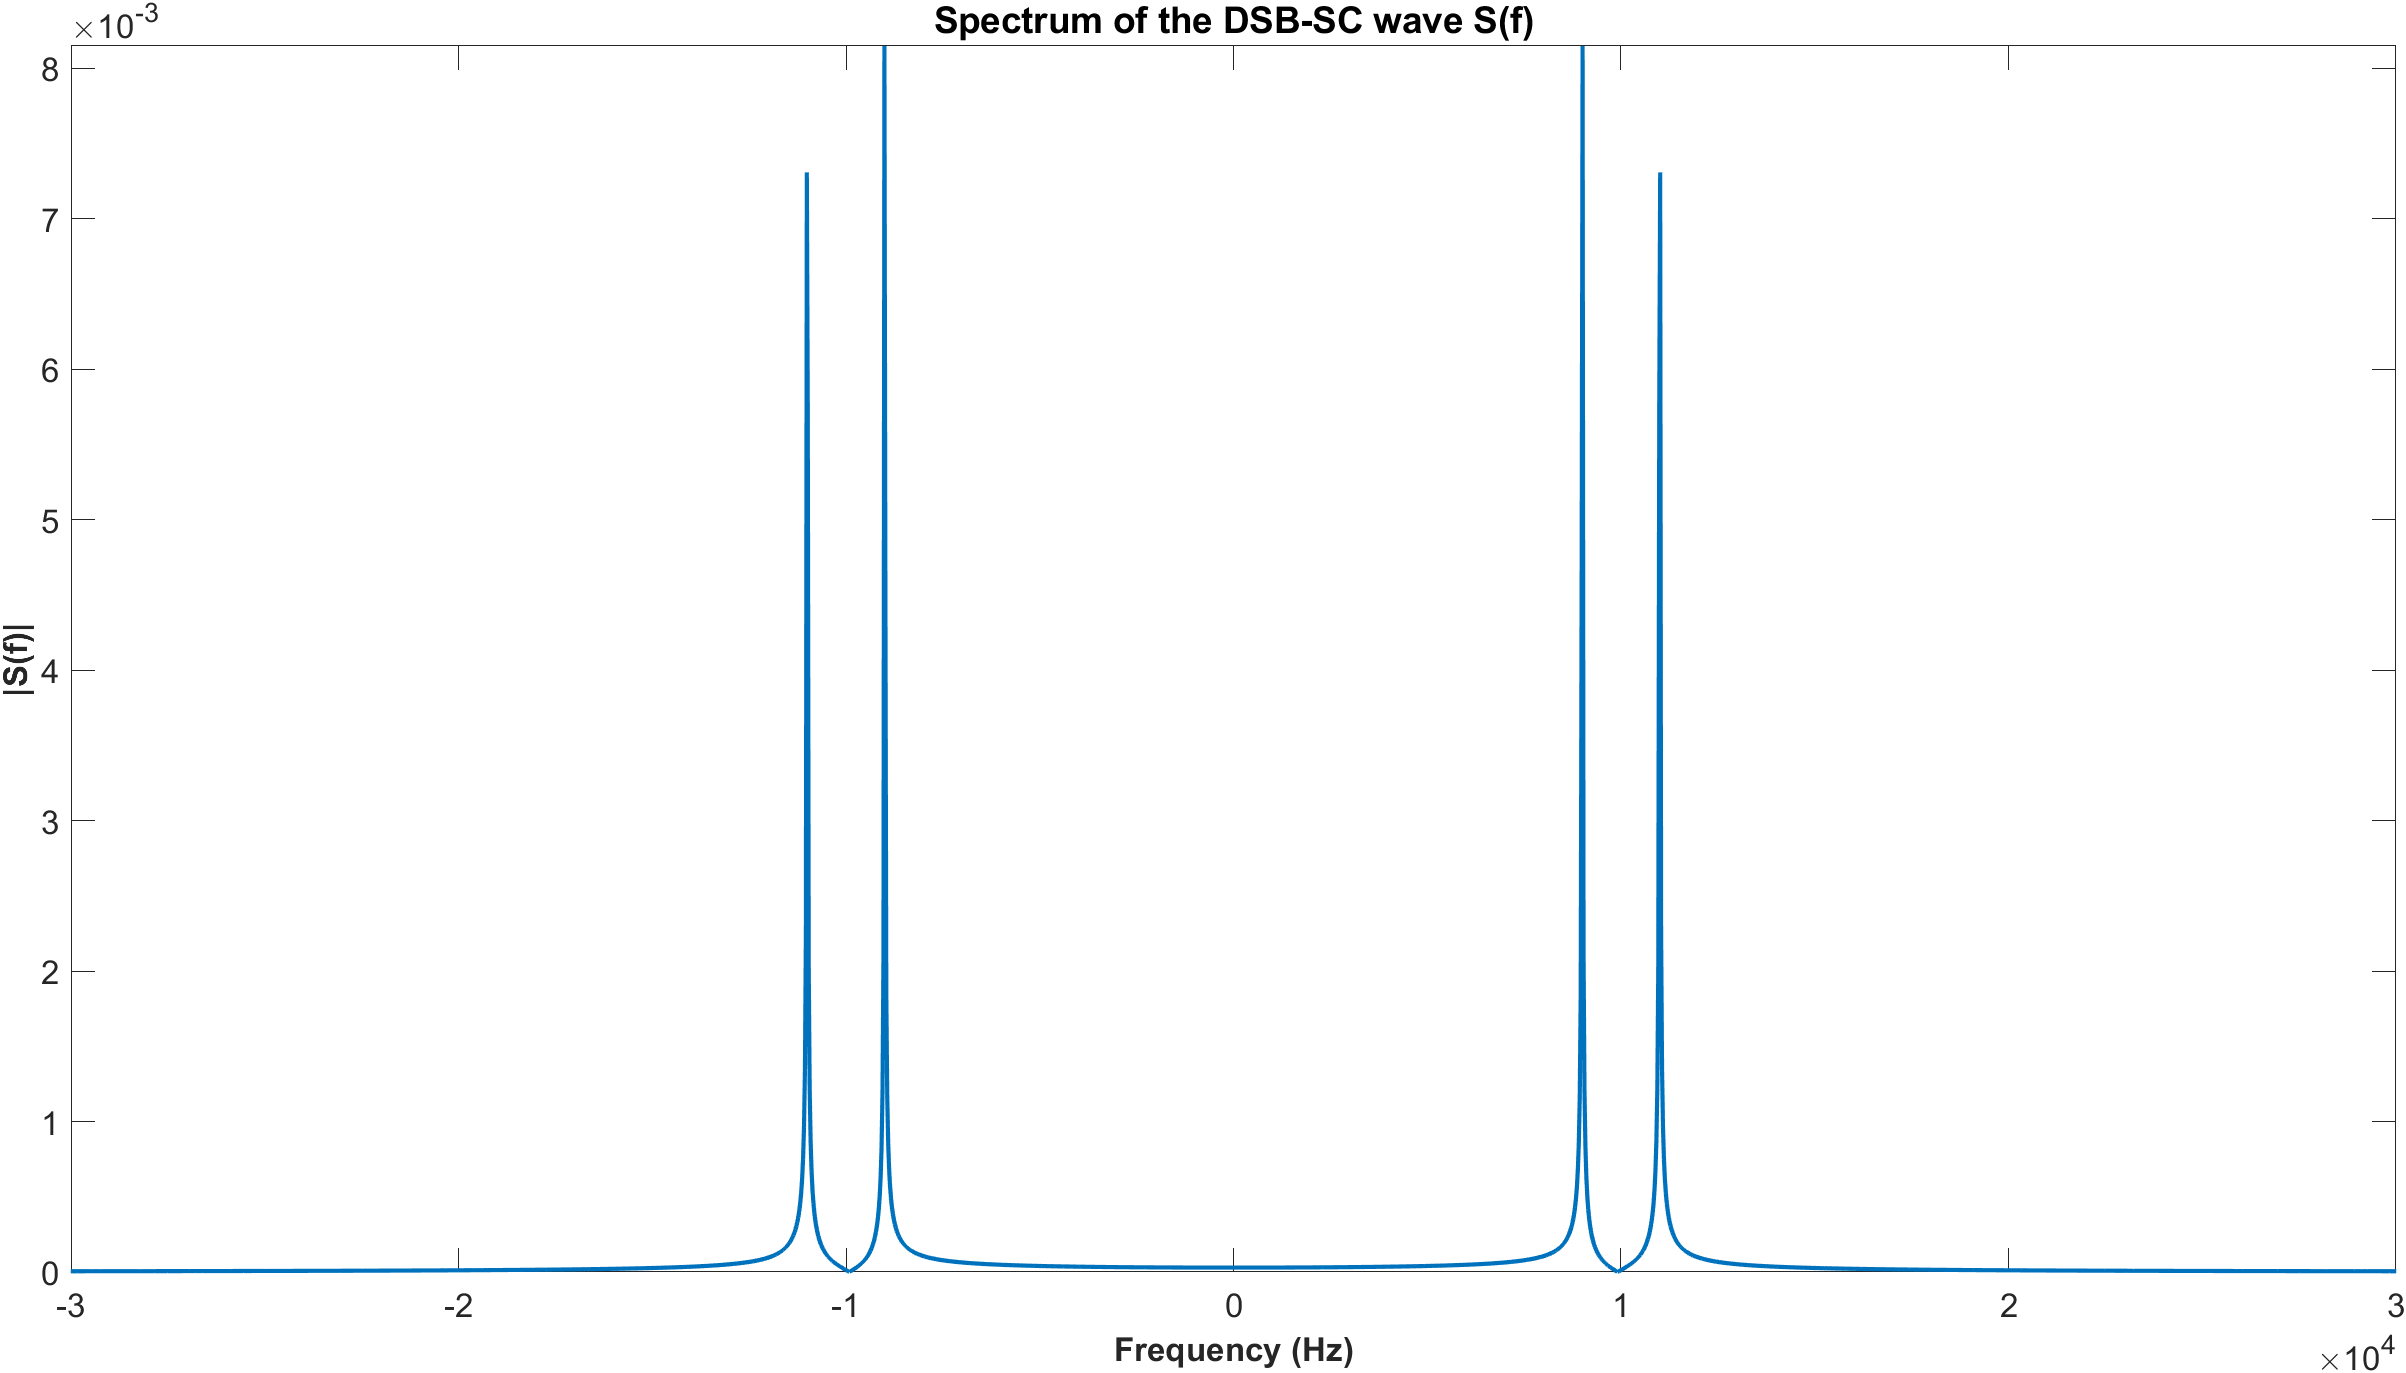
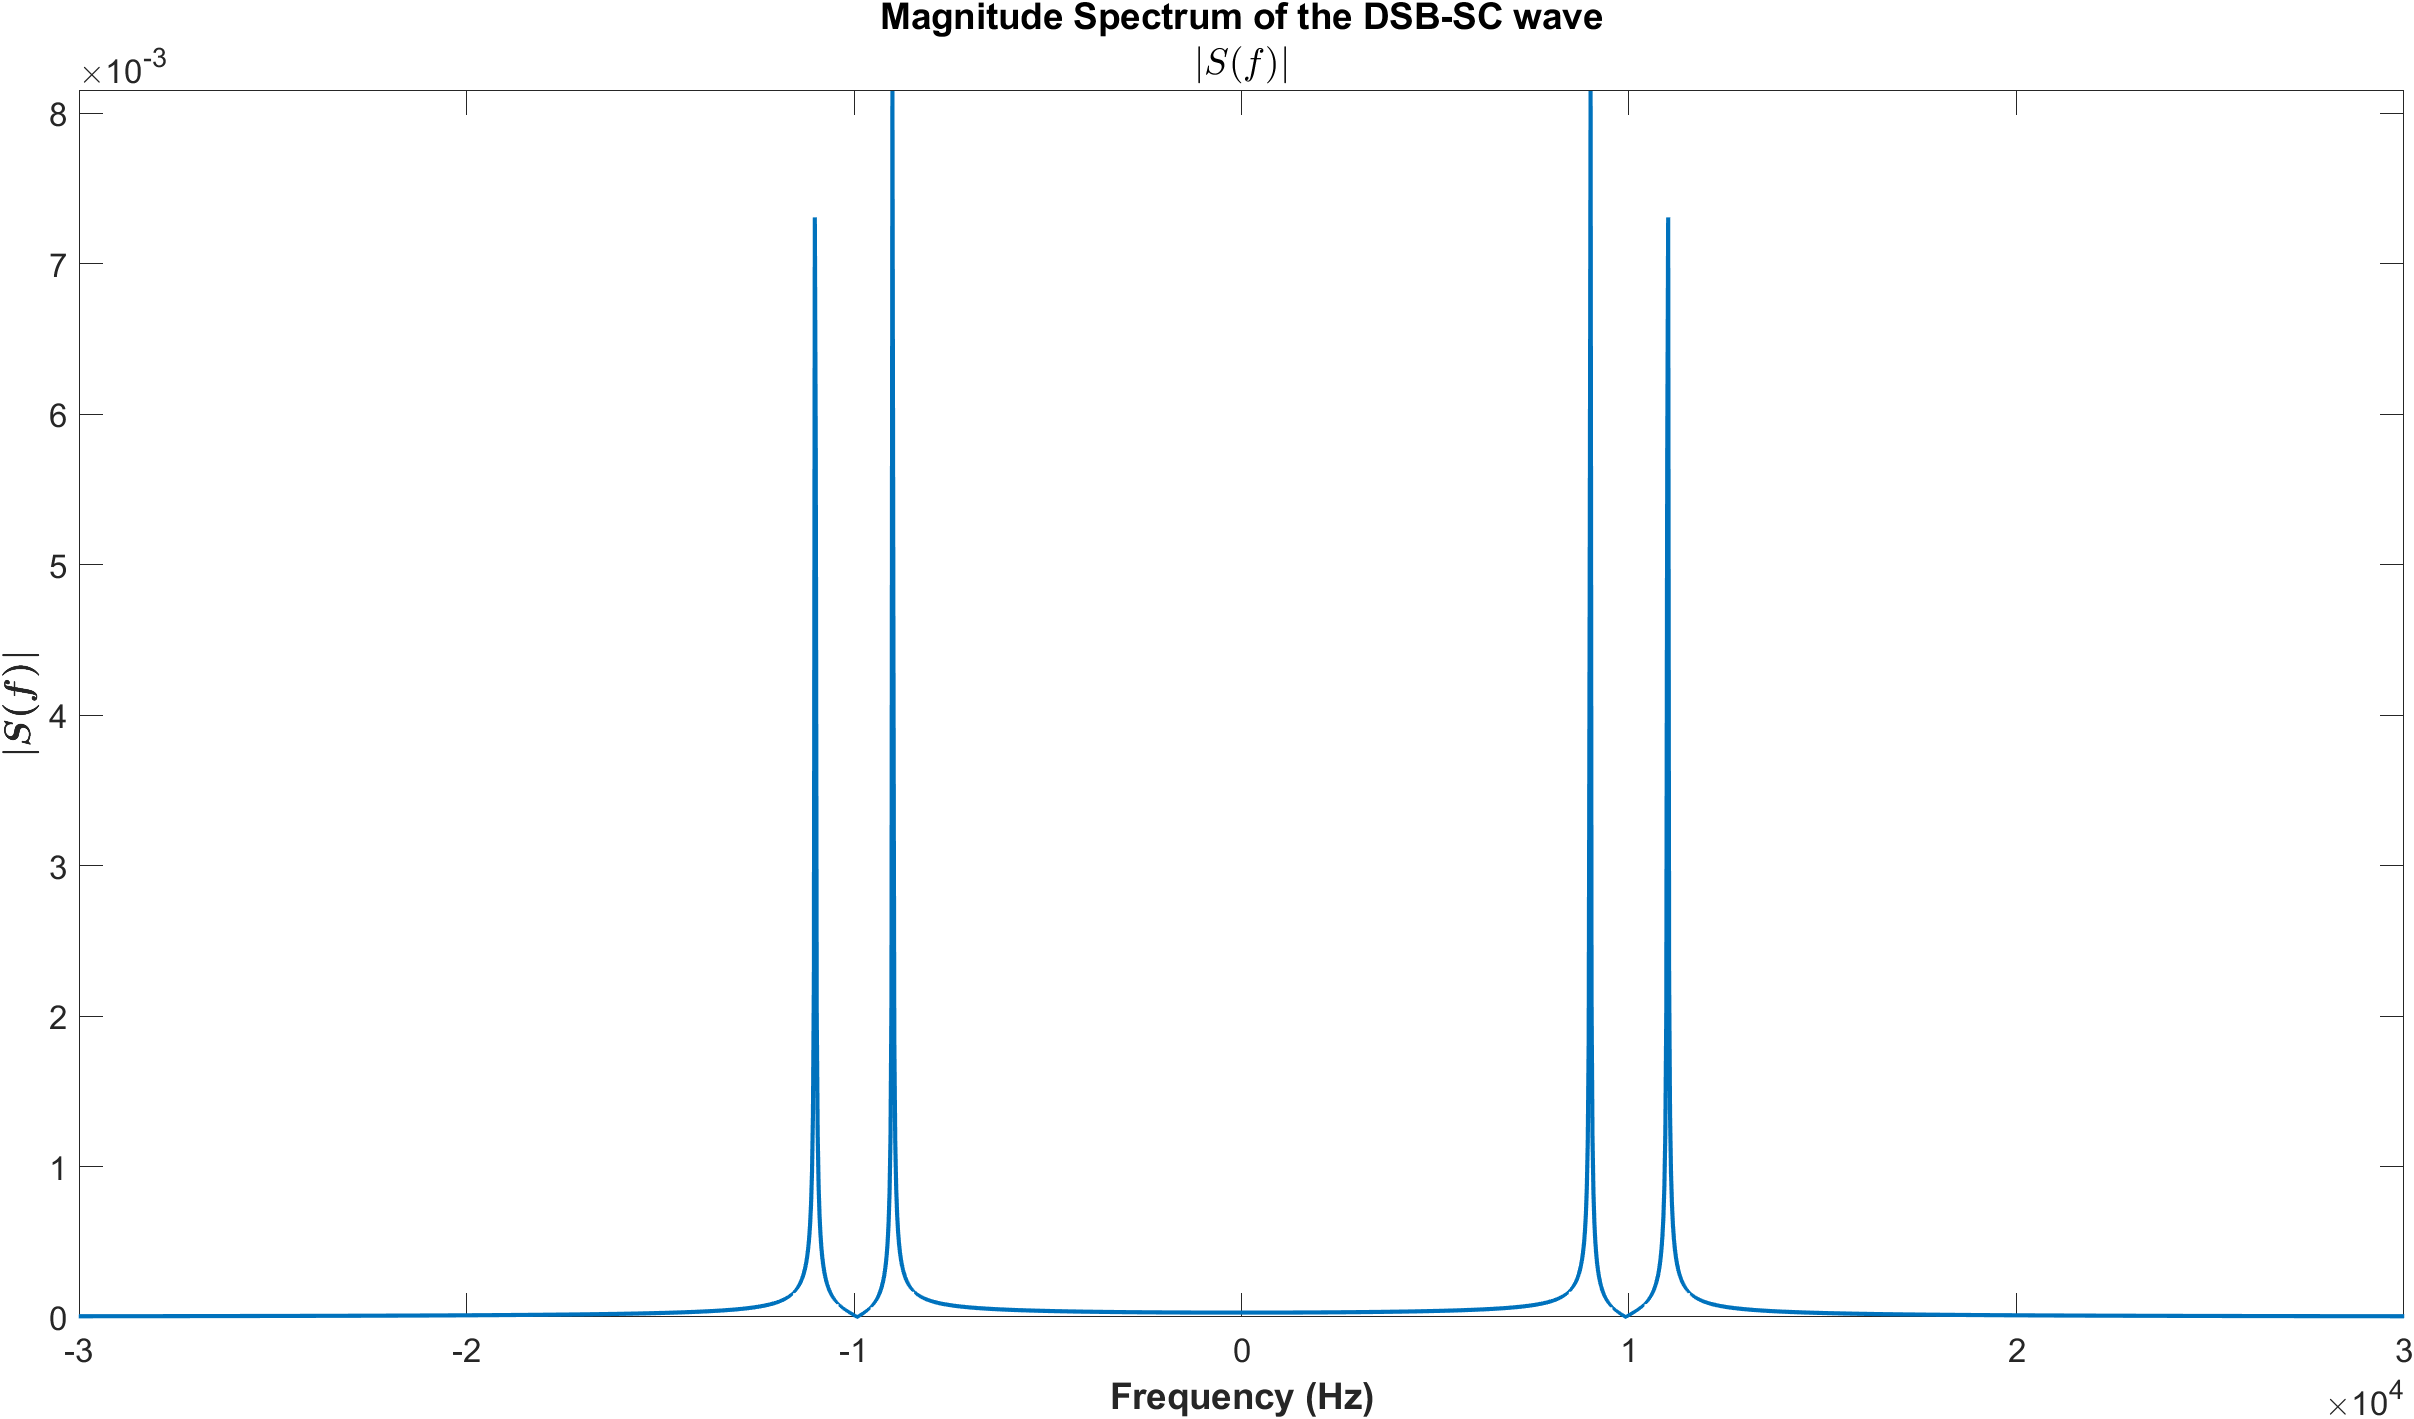
done lab 3 experiments

diff --git a/Lab 3/MATLAB/exp3_2.m b/Lab 3/MATLAB/exp3_2.m
@@ -1,6 +1,8 @@
 clear
 hold off
 format long e
+set(0,'DefaultAxesFontSize',16);
+
 N = 4096; %No. of FFT samples
 sampling_rate = 100.0e3; %unit Hz
 tstep = 1/sampling_rate;
@@ -13,170 +15,124 @@ fmin = -fmax;
 fstep = (fmax-fmin)/N;
 freq = fmin:fstep:fmax-fstep;
 
-fc=20e3;
+fc = 10e3;
 Ac = 1;
 %In-phase carrier
-ct1=Ac*cos(2*pi*fc*tt);
+ct1= Ac * cos(2*pi*fc*tt);
+
 %The first message signal
-mt1 = exp(-tt.*tt*1e6);
+tau_m = 0.001;
+mt1 = 2*sinc(tt/tau_m);
+
 %DSB-SC1
 st1 = mt1.*ct1;
+
 %Quad. carrier
-ct2=Ac*sin(2*pi*fc*tt);
+ct2 = Ac * sin(2*pi*fc*tt);
+
 %The second message signal
-fm = 1e3;
-mt2 = sin(2*pi*fm*tt);
+mt2 = sinc(tt/tau_m).^2;
 %DSB-SC2
 st2 = mt2.*ct2;
 %QAM signal
 st = st1+st2;
 
+%% Plot the QAM Signal in Time Domain
+qam_time = figure(1);
+time_dom = plot(tt, st, 'LineWidth', 2);
+xlabel('Time (s)','FontWeight','bold');
+ylabel('\boldmath$s(t)$ \textbf{(V)}','interpreter','latex');
+title('QAM Signal: Time Domain');
+subtitle('$s(t)$', 'interpreter', 'latex');
+axis([-10/fc 10/fc min(st) max(st)]);
+qam_time.WindowState = 'maximized';
+export_dest = "../Report/Figures/qam_time.png";
+exportgraphics(qam_time, export_dest);
 
-figure(1)
-Hp1 = plot(tt,mt1);
-set(Hp1,'LineWidth',2)
-Ha = gca;
-set(Ha,'Fontsize',16)
-Hx=xlabel('Time (sec) ');
-set(Hx,'FontWeight','bold','Fontsize',16)
-Hx=ylabel('message  m1(t)  (Volt)');
-set(Hx,'FontWeight','bold','Fontsize',16)
-title('First message signal : Time domain');
-axis([-0.01 0.01 0 1.1])
-pause(1)
-figure(2)
-Hp1 = plot(tt,mt2);
-set(Hp1,'LineWidth',2)
-Ha = gca;
-set(Ha,'Fontsize',16)
-Hx=xlabel('Time (sec) ');
-set(Hx,'FontWeight','bold','Fontsize',16)
-Hx=ylabel('message m2(t)(Volt)');
-set(Hx,'FontWeight','bold','Fontsize',16)
-title('Second message signal : Time domain');
-axis([-0.01 0.01 min(mt2) max(mt2)])
-pause(1)
-figure(3)
-Hp1 = plot(tt,st);
-set(Hp1,'LineWidth',2)
-Ha = gca;
-set(Ha,'Fontsize',16)
-Hx=xlabel('Time (sec) ');
-set(Hx,'FontWeight','bold','Fontsize',16)
-Hx=ylabel('s(t)  (Volt)');
-set(Hx,'FontWeight','bold','Fontsize',16)
-title('QAM signal : Time domain');
-axis([-0.01 0.01 -1.5 1.5])
-pause(1)
-Mf1 = fftshift(fft(fftshift(mt1)))/(2*fmax);
-figure(4)
+%% Plot the QAM Signal in Frequency Domain (Magnitude Spectrum)
+Sf = fftshift(fft(fftshift(st)))/(2*fmax);
+qam_freq = figure(2);
 %The amplitude of the spectrum is different from the Fourier transform
 %amplitude due to discretization of discrete Fourier transform
-Hp1=plot(freq,abs(Mf1))
-set(Hp1,'LineWidth',2)
-Ha = gca;
-set(Ha,'Fontsize',16)
-Hx=xlabel('Frequency (Hz) ');
-set(Hx,'FontWeight','bold','Fontsize',16)
-Hx=ylabel('|M1(f)|');
-set(Hx,'FontWeight','bold','Fontsize',16)
-title('Spectrum of the message signal 1');
-axis ([-15e3 15e3 0 200/(2*fmax)])
-pause(1)
+freq_dom = plot(freq,abs(Sf),'LineWidth',2);
+xlabel('Frequency (Hz)','FontWeight','bold');
+ylabel('\boldmath$|S(f)|$', 'interpreter', 'latex');
+title('Spectrum of the QAM Signal S(f)');
+subtitle('$|S(f)|$','interpreter','latex');
+axis([-30e3 30e3 0 200/(2*fmax)])
+qam_freq.WindowState = 'maximized';
+export_dest = "../Report/Figures/qam_freq.png";
+exportgraphics(qam_freq, export_dest);
 
-Mf2 = fftshift(fft(fftshift(mt2)))/(2*fmax);
-figure(5)
-Hp1=plot(freq,abs(Mf2))
-set(Hp1,'LineWidth',2)
-Ha = gca;
-set(Ha,'Fontsize',16)
-Hx=xlabel('Frequency (Hz) ');
-set(Hx,'FontWeight','bold','Fontsize',16)
-Hx=ylabel('|M2(f)|');
-set(Hx,'FontWeight','bold','Fontsize',16)
-title('Spectrum of the message signal 2');
-axis ([-15e3 15e3 0 200/(2*fmax)])
-pause(1)
-
-figure(6)
-Sf = fftshift(fft(fftshift(st)))/(2*fmax);
-Hp1=plot(freq,abs(Sf));
-set(Hp1,'LineWidth',2)
-Ha = gca;
-set(Ha,'Fontsize',16)
-Hx=xlabel('Frequency (Hz) ');
-set(Hx,'FontWeight','bold','Fontsize',16)
-Hx=ylabel('|S(f)|');
-set(Hx,'FontWeight','bold','Fontsize',16)
-title('Spectrum of the QAM signal S(f)');
-axis ([-30e3 30e3 0 200/(2*fmax)])
-pause(1)
 %@Rx
 %QAM demux and demodulation
+% function defined at bottom of script
+lpf_signal(st, 0, freq, fmax, mt1, mt2, tt, fc, 1.5e3, 3);
+lpf_signal(st, pi/4, freq, fmax, mt1, mt2, tt, fc, 1.5e3, 4);
 
-%Local oscillator at the receiver perfectly synchronized
-thet=0;
-lo1 = cos(2*pi*fc*tt + thet);
-lo2 = sin(2*pi*fc*tt + thet); 
-%upper branch of QAM Rx
-stt1 = st .* lo1;
-Sff1 = fftshift(fft(fftshift(stt1)))/(2*fmax);
-%lower branch of QAM Rx
-stt2 = st .* lo2;
-Sff2 = fftshift(fft(fftshift(stt2)))/(2*fmax);
+set(0,'DefaultAxesFontSize','remove');
 
-%Low pass filtering
-f_cutoff = 30e3;
-%ideal low pass filter
-n=1;
-for f = freq
-    if abs(f) < f_cutoff
-        Hf(n) = 1;
-    else
-        Hf(n) = 0;
+% function for lpf output
+function lpf_signal(st, theta, freq, fmax, mt1, mt2, tt, fc, f_cutoff, fig_num)
+    %Local oscillator at the receiver perfectly synchronized
+    thet = theta;
+    lo1 = cos(2*pi*fc*tt + thet);
+    lo2 = sin(2*pi*fc*tt + thet); 
+    %upper branch of QAM Rx
+    stt1 = st .* lo1;
+    Sff1 = fftshift(fft(fftshift(stt1)))/(2*fmax);
+    %lower branch of QAM Rx
+    stt2 = st .* lo2;
+    Sff2 = fftshift(fft(fftshift(stt2)))/(2*fmax);
+
+    %Low pass filtering
+    %ideal low pass filter
+    n=1;
+    for f = freq
+        if abs(f) < f_cutoff
+            Hf(n) = 1;
+        else
+            Hf(n) = 0;
+        end
+    n=n+1;
     end
-n=n+1;
+    Mff1 = Sff1 .* Hf;
+    mt_hat1 = 2*fmax*fftshift(ifft(fftshift(Mff1)));
+    Mff2 = Sff2 .* Hf;
+    mt_hat2 = 2*fmax*fftshift(ifft(fftshift(Mff2)));
+
+    fig = figure(fig_num);
+    t = tiledlayout(1,2);
+    
+    nexttile;
+    plt1 = plot(tt,mt_hat1,'r',tt,mt1*0.5,'g.','LineWidth',2);
+    xlabel('Time (s)','FontWeight','bold');
+    ylabel('\boldmath$\hat{m}_1(t)$ \textbf{(V)}','interpreter','latex')
+    title('Output of LPF: Time Domain');
+    switch theta
+        case 0
+            subtitle('$\hat{m}_1(t)$, $\theta = 0$','interpreter','latex');
+        case pi/4
+            subtitle('$\hat{m}_1(t)$, $\theta = \pi/4$','interpreter','latex');
+    end
+    axis([-0.01 0.01 min(mt1*0.5) max(mt1*0.5)])
+    legend('LPF output', 'Message Signal 1');
+    
+    nexttile;
+    plt2 = plot(tt,mt_hat2,'r',tt,mt2*0.5,'g.','LineWidth',2);
+    xlabel('Time (s)','FontWeight','bold');
+    ylabel('\boldmath$\hat{m}_2(t)$ \textbf{(V)}','interpreter','latex')
+    title('Output of LPF: Time Domain');
+    switch theta
+        case 0
+            subtitle('$\hat{m}_2(t)$, $\theta = 0$','interpreter','latex');
+        case pi/4
+            subtitle('$\hat{m}_2(t)$, $\theta = \pi/4$','interpreter','latex');
+    end
+    axis([-0.01 0.01 min(mt2*0.5) max(mt2*0.5)])
+    legend('LPF output', 'Message Signal 2');
+    
+    fig.WindowState = 'maximized';
+    export_dest = "../Report/Figures/qam_demod_lpf_theta_" + num2str(thet) + ".png";
+    exportgraphics(fig, export_dest);
 end
-Mff1 = Sff1 .* Hf;
-mt_hat1 = 2*fmax*fftshift(ifft(fftshift(Mff1)));
-Mff2 = Sff2 .* Hf;
-mt_hat2 = 2*fmax*fftshift(ifft(fftshift(Mff2)));
-figure(7)
-Hp1=plot(tt,mt_hat1,'r',tt,mt1*0.5,'g.');
-set(Hp1,'LineWidth',2)
-Ha = gca;
-set(Ha,'Fontsize',16)
-Hx=xlabel('Time (sec) ');
-set(Hx,'FontWeight','bold','Fontsize',16)
-Hx=ylabel('m hat1(t)(Volt)');
-set(Hx,'FontWeight','bold','Fontsize',16)
-title('Output of LPF1,  m hat1(t)  : Time domain');
-axis([-0.01 0.01 min(mt1*0.5) max(mt1*0.5)])
-legend('LPF1 output', 'message sig1');
-
-figure(8)
-Hp1=plot(tt,mt_hat2,'r',tt,mt2*0.5,'g.');
-set(Hp1,'LineWidth',2)
-Ha = gca;
-set(Ha,'Fontsize',16)
-Hx=xlabel('Time (sec) ');
-set(Hx,'FontWeight','bold','Fontsize',16)
-Hx=ylabel('m hat2(t)(Volt)');
-set(Hx,'FontWeight','bold','Fontsize',16)
-title('Output of LPF2,  m hat2(t)  : Time domain');
-axis([-0.01 0.01 min(mt2*0.5) max(mt2*0.5)])
-legend('LPF2 output', 'message sig2');
-
-
-
-
-
-
-
-
-
-
-
-
-
-     

diff --git a/Lab 3/MATLAB/exp3_1.m b/Lab 3/MATLAB/exp3_1.m
@@ -1,6 +1,8 @@
 clear
 hold off
 format long e
+set(0,'DefaultAxesFontSize',16);
+
 N = 4096; %No. of FFT samples
 sampling_rate = 100.0e3; %unit Hz
 tstep = 1/sampling_rate;
@@ -36,11 +38,10 @@ hold off
 % function defined at bottom of script
 phase_Reversal(tt, tstep, mt, 10/fc, -10/fc);
 
-time_dom_ax = gca;
-set(time_dom_ax,'Fontsize',16);
-xlabel('Time (s)','FontWeight','bold','Fontsize',16);
-ylabel('DSB-SC Signal s(t) (V)','FontWeight','bold','Fontsize',16);
-title('DSB-SC Modulated Wave: Time domain');
+xlabel('Time (s)','FontWeight','bold');
+ylabel('\boldmath$s(t)$ \textbf{(V)}','interpreter','latex');
+title('DSB-SC Modulated Wave: Time Domain');
+subtitle('$s(t)$', 'interpreter', 'latex');
 axis([-10/fc 10/fc min(st) max(st)]);
 legend('DSB-SC Signal', 'Positive Envelope', 'Negative Envelope', 'Phase Reversal');
 dsbsc_time.WindowState = 'maximized';
@@ -51,11 +52,10 @@ exportgraphics(dsbsc_time, export_dest);
 Sf = fftshift(fft(fftshift(st)))/(2*fmax);
 dsbsc_freq = figure(2);
 freq_dom = plot(freq,abs(Sf),'LineWidth',2);
-freq_dom_ax = gca;
-set(freq_dom_ax,'Fontsize',16);
-xlabel('Frequency (Hz)','FontWeight','bold','Fontsize',16);
-ylabel('|S(f)|','FontWeight','bold','Fontsize',16);
-title('Spectrum of the DSB-SC wave S(f)');
+xlabel('Frequency (Hz)','FontWeight','bold');
+ylabel('\boldmath$|S(f)|$','interpreter','latex');
+title('Magnitude Spectrum of the DSB-SC wave');
+subtitle('$|S(f)|$', 'interpreter', 'latex');
 axis ([-30e3 30e3 0 max(abs(Sf))]);
 dsbsc_freq.WindowState = 'maximized';
 export_dest = "../Report/Figures/dsbsc_freq.png";
@@ -69,11 +69,10 @@ st1 = st .* lo;
 %% Plot Remodulated Signal in Time Domain
 dsbsc_remod_time = figure(3);
 time_dom = plot(tt, st1, 'LineWidth', 2);
-time_dom_ax = gca;
-set(time_dom_ax,'Fontsize',16);
-xlabel('Time (s)','FontWeight','bold','Fontsize',16);
-ylabel('\boldmath$\hat{s}$\textbf{(t) (V)}','interpreter','latex','FontWeight','bold','Fontsize',16);
-title('DSB-SC Remodulated Wave: Time domain');
+xlabel('Time (s)','FontWeight','bold');
+ylabel('\boldmath$\hat{s}(t)$ \textbf{(V)}','interpreter','latex');
+title('DSB-SC Remodulated Wave: Time Domain');
+subtitle('$\hat{s}(t)$', 'interpreter', 'latex');
 axis([-10/fc 10/fc min(st) max(st)]);
 dsbsc_remod_time.WindowState = 'maximized';
 export_dest = "../Report/Figures/dsbsc_remod_time.png";
@@ -83,11 +82,10 @@ exportgraphics(dsbsc_remod_time, export_dest);
 Sf1 = fftshift(fft(fftshift(st1)))/(2*fmax);
 dsbsc_remod_freq = figure(4);
 freq_dom = plot(freq,abs(Sf1),'LineWidth',2);
-freq_dom_ax = gca;
-set(freq_dom_ax,'Fontsize',16)
-xlabel('Frequency (Hz)','FontWeight','bold','Fontsize',16);
-ylabel('\boldmath$|S(f)|$','FontWeight','bold','Fontsize',16,'interpreter','latex');
-title('Spectrum S hat(f)');
+xlabel('Frequency (Hz)','FontWeight','bold');
+ylabel('\boldmath$|\hat{S}(f)|$','interpreter','latex');
+title('Magnitude Spectrum of the DSB-SC Remodulated Signal');
+subtitle('$|\hat{S}(f)|$','interpreter','latex');
 axis ([-50e3 50e3 0 max(abs(Sf1))]);
 dsbsc_remod_freq.WindowState = 'maximized';
 export_dest = "../Report/Figures/dsbsc_remod_freq.png";
@@ -99,6 +97,8 @@ exportgraphics(dsbsc_remod_freq, export_dest);
 lpf_signal(st, 0, freq, fmax, mt, tt, fc, 5);
 lpf_signal(st, pi/2, freq, fmax, mt, tt, fc, 6);
 lpf_signal(st, pi/4, freq, fmax, mt, tt, fc, 7);
+
+set(0,'DefaultAxesFontSize','remove');
 
 function Hf = ideal_lpf(f_cutoff, freq)
     %ideal low pass filter
@@ -126,11 +126,17 @@ function lpf_signal(st, theta, freq, fmax, mt, tt, fc, fig_num)
     
     fig = figure(fig_num);
     plt = plot(tt,mt1,'r',tt,mt*0.5,'g--','LineWidth',2);
-    ax = gca;
-    set(ax,'Fontsize',16)
-    xlabel('Time (s)','FontWeight','bold','Fontsize',16);
-    ylabel('m hat(t) (V)','FontWeight','bold','Fontsize',16);
-    title('Output of low pass filter, m hat(t) : Time domain');
+    xlabel('Time (s)','FontWeight','bold');
+    ylabel('\boldmath$\hat{m}(t)$\textbf{ (V)}','interpreter','latex');
+    title('Output of LPF: Time Domain');
+    switch theta
+        case 0
+            subtitle("$\hat{m}(t)$, $\theta = 0$", 'interpreter', 'latex');
+        case pi/2
+            subtitle("$\hat{m}(t)$, $\theta = \pi/2$", 'interpreter', 'latex');
+        case pi/4
+            subtitle("$\hat{m}(t)$, $\theta = \pi/4$", 'interpreter', 'latex');
+    end
     axis([-0.01 0.01 min(mt*0.5) max(mt*0.5)])
     legend('LPF output', 'Message Signal');
     fig.WindowState = 'maximized';
